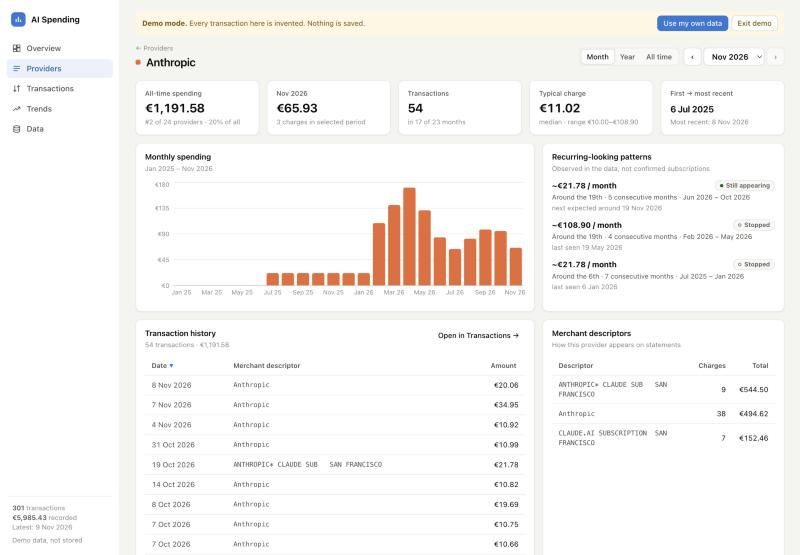
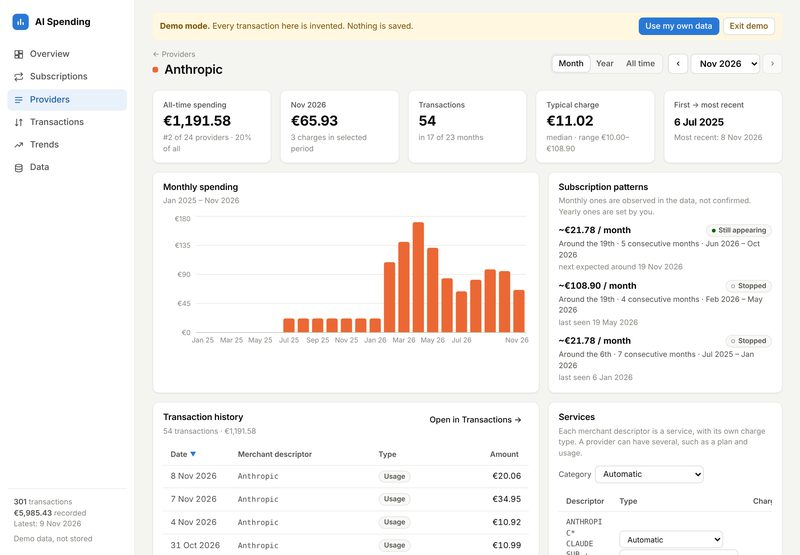
Regenerate README screenshots and document the new corrections
All screenshots retaken from the current demo data, plus new ones for the
Subscriptions page (with the Type control), price changes / overlap /
stopped, provider Services (type, label, category), the subscription /
usage / one-time split, the monthly budget and the quarter export. The
README now describes per-charge types, labels, provider categories and
plan switches.

Refs #13

Claude-Session: https://claude.ai/code/session_01Qfp4rKYZyoAM3kx2Mp811X

diff --git a/README.md b/README.md
@@ -142,17 +142,18 @@ Every charge is one of three things, by how it is billed:
 
 The app guesses, and you correct. In order, a charge is:
 
-1. whatever you set (see below), else
-2. a **monthly subscription** if it is part of a detected pattern (monthly, similar day and amount, 3+ months in a row), else
-3. what the statement import or a `Type` column said (Subscription, Usage; Certification, Domains, Hosting and Other count as One-time / Other), else
-4. **Usage** if the same descriptor has been charged 3 or more times without a monthly rhythm, else
-5. **One-time / Other**.
+1. whatever you set **for that charge** (see below), else
+2. whatever you set for its **stream** (provider plus descriptor), else
+3. a **monthly subscription** if it is part of a detected pattern (monthly, similar day and amount, 3+ months in a row, or a new price straight after a pattern ended: see [Plan switches](#insights)), else
+4. what the statement import or a `Type` column said (Subscription, Usage; Certification, Domains, Hosting and Other count as One-time / Other), else
+5. **Usage** if the same descriptor has been charged 3 or more times without a monthly rhythm, else
+6. **One-time / Other**.
 
 **Yearly subscriptions are never detected.** One renewal a year cannot be told from a one-off charge, so a yearly subscription is always something you set. The amount is the last charge, and the next renewal is estimated a year after it and labelled "estimated" until a real renewal has been seen. If the date passes, it shows as "renewal not seen yet" and is still counted for 60 days. After that it moves to Stopped. In the run-rate it counts as a twelfth per month; in the 30-day calendar it appears, at its full amount, when a renewal is near.
 
 **Services under a provider.** A stream is a provider plus a merchant descriptor, and each stream has its own type. Anthropic's `CLAUDE SUB` descriptor can be a subscription while plain `Anthropic` is usage; the provider page lists them as services, each with its own control. When a service bills a plan and its usage in one charge (Vercel, for example) the data cannot separate them: set it to Subscription and accept that the amounts will vary.
 
-**Setting a type.** Each charge in the Transactions table, each row on the Subscriptions page and each service on a provider page has a **Type** control: Automatic, Subscription · monthly, Subscription · yearly, Usage, or One-time / Other. While it is on Automatic, the app shows what it guessed, and why on hover. A choice applies to the whole stream (every charge with the same provider and descriptor, and the control says how many). It never changes a charge or a total. Corrections are stored in this browser (removed by **Clear local data**; in demo mode kept in memory only). Corrections saved by earlier versions are converted: "subscription" becomes Subscription · monthly, and "ignore" becomes One-time / Other.
+**Setting a type.** Each charge in the Transactions table, each row on the Subscriptions page and each service on a provider page has a **Type** control: Automatic, Subscription · monthly, Subscription · yearly, Usage, or One-time / Other. While it is on Automatic, the app shows what it guessed, and why on hover. A choice applies to the whole stream (every charge with the same provider and descriptor, and the control says how many). In the Transactions table, **Just this charge…** sets the type of one charge instead, for a stream that shares a descriptor between a plan and its top-ups; such a charge is marked "Differs from its stream". It never changes a charge or a total. Corrections are stored in this browser (removed by **Clear local data**; in demo mode kept in memory only). **Labels and categories.** A stream can carry a short label such as "Claude Pro", edited next to the Type control on the Subscriptions page and a provider's Services card; it is shown instead of the descriptor (which stays on hover). A provider can be given a category on its page, which charts, budgets and overlap then use instead of the built-in mapping. Both are display choices: no charge or total changes. They are stored and listed in **Your corrections** like types. Corrections saved by earlier versions are converted: "subscription" becomes Subscription · monthly, and "ignore" becomes One-time / Other.
 
 ## Insights
 
@@ -160,6 +161,7 @@ A charge only has a merchant, provider, amount and date: no plan name, no usage 
 
 - **Run-rate.** The sum of the latest charge of each subscription that is still active, per month. A yearly subscription counts as a twelfth. The latest charge is used, not an average, because it is what you are committed to now; a service whose single charge mixes a plan and usage (Vercel, for example) will therefore move with its overage.
 - **Next 30 days.** Each active pattern lands on its usual day. Not shown when the newest recorded charge is more than 45 days old (it would be guesswork), the same rule as the month-end estimate.
+- **Plan switches.** A new charge on the same descriptor in the month after a monthly pattern ended (or the one after) is counted straight away as the same subscription at the new price, marked as seen once or twice, instead of waiting for three charges. The old pattern shows as replaced, not stopped. A lone charge that nothing followed stays a one-off. Descriptors whose charges mostly do not line up (credit top-ups that match for three months by chance) are not read as a subscription at all.
 - **Price changes.** Two cases: one pattern ends and another starts at a different amount within a month (a plan switch, "likely a plan change" at 25%+), or the amount inside one pattern moves by 10% or more and stays there. Small month-to-month wobble (for instance a USD price converted to EUR) and a single odd charge that goes straight back are ignored.
 - **Stopped.** Patterns that ran and are no longer appearing, unless a newer pattern at the same provider replaced them (that is a plan change). Each is checked for later charges from the same merchant: none means the cancellation looks clean; some are listed ("Still charging"), which often means the stream was usage top-ups rather than a subscription.
 - **Overlap.** Two or more active recurring charges from different providers in the same category: chat assistants, coding tools, media tools, writing and meeting tools. Hosting and domains are normally plural, so they are not flagged.
@@ -168,7 +170,7 @@ A charge only has a merchant, provider, amount and date: no plan name, no usage 
 - **Budgets.** A monthly budget in total and/or per category, shown against what is spent so far and the month-end estimate ("On track to exceed by €40", "Over budget by €20"). A category estimate uses the same method as the total, applied to that category's charges. Saved in this browser (IndexedDB), not exported, and removed by **Clear local data**.
 - **Tags.** One optional label per charge. Edit it in the Transactions table, or tag everything currently shown (existing different tags are only replaced after a confirmation). **Data → Export a quarter** downloads one quarter, optionally one tag, as a CSV with a `Tag` column that can be re-imported. The ledger has no VAT figures, so amounts are as charged and VAT is not split out.
 
-- **Your corrections.** See [Charge types](#charge-types). Corrections flow through run-rate, calendar, price changes, overlap, the type split, the month-end estimate and the recurring-patterns tables, and are listed with a **Reset to automatic** button in the **Your corrections** card.
+- **Your corrections.** See [Charge types](#charge-types). Corrections flow through run-rate, calendar, price changes, overlap, the type split, the month-end estimate and the recurring-patterns tables, and are listed with a **Reset** button in the **Your corrections** card (types per stream or per charge, labels and provider categories).
 
 In demo mode budgets, tags and corrections live in memory only, like the demo data.
 
@@ -245,7 +247,10 @@ Options: `--end YYYY-MM-DD` (default today), `--seed N` (default 2026), `--out D
 | ![Changes](docs/screenshots/07-trends-changes-recurring.jpg) Changes, concentration, recurring | ![Import review](docs/screenshots/08-import-review-errors.jpg) Import review with errors |
 | ![Data](docs/screenshots/09-data.jpg) Data management | ![Dark](docs/screenshots/13-overview-dark.jpg) Dark mode |
 | ![Mobile](docs/screenshots/10-mobile-overview.jpg) Mobile overview | ![Mobile forecast](docs/screenshots/11-mobile-forecast.jpg) Mobile estimate |
-| ![Mobile transactions](docs/screenshots/12-mobile-transactions.jpg) Mobile transactions | |
+| ![Mobile transactions](docs/screenshots/12-mobile-transactions.jpg) Mobile transactions | ![Subscriptions](docs/screenshots/15-subscriptions.jpg) Subscriptions: run-rate, calendar, Type control |
+| ![Price changes, overlap and stopped](docs/screenshots/16-subscriptions-insights.jpg) Price changes, overlap, stopped | ![Services](docs/screenshots/14-provider-services.jpg) Provider services: type, label and category |
+| ![Types](docs/screenshots/17-trends-types.jpg) Trends: subscription, usage and one-time | ![Budget](docs/screenshots/18-budget.jpg) Monthly budget against the estimate |
+| ![Quarter export](docs/screenshots/19-quarter-export.jpg) Export a quarter | |
 
 All screenshots show the synthetic demo data.
 
